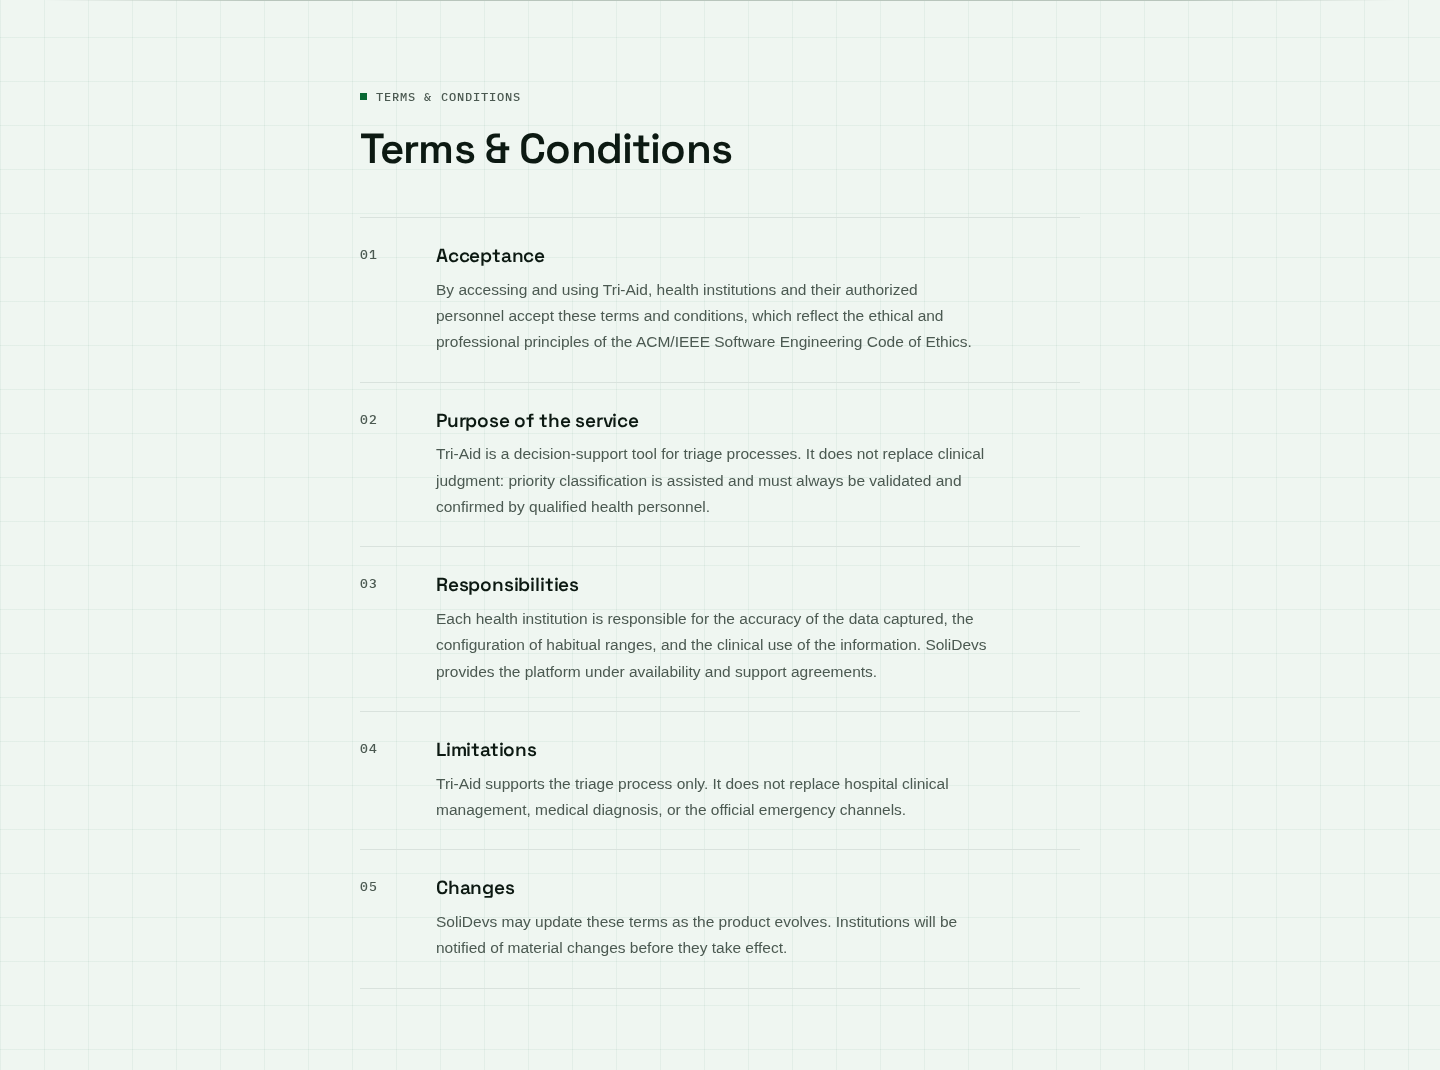
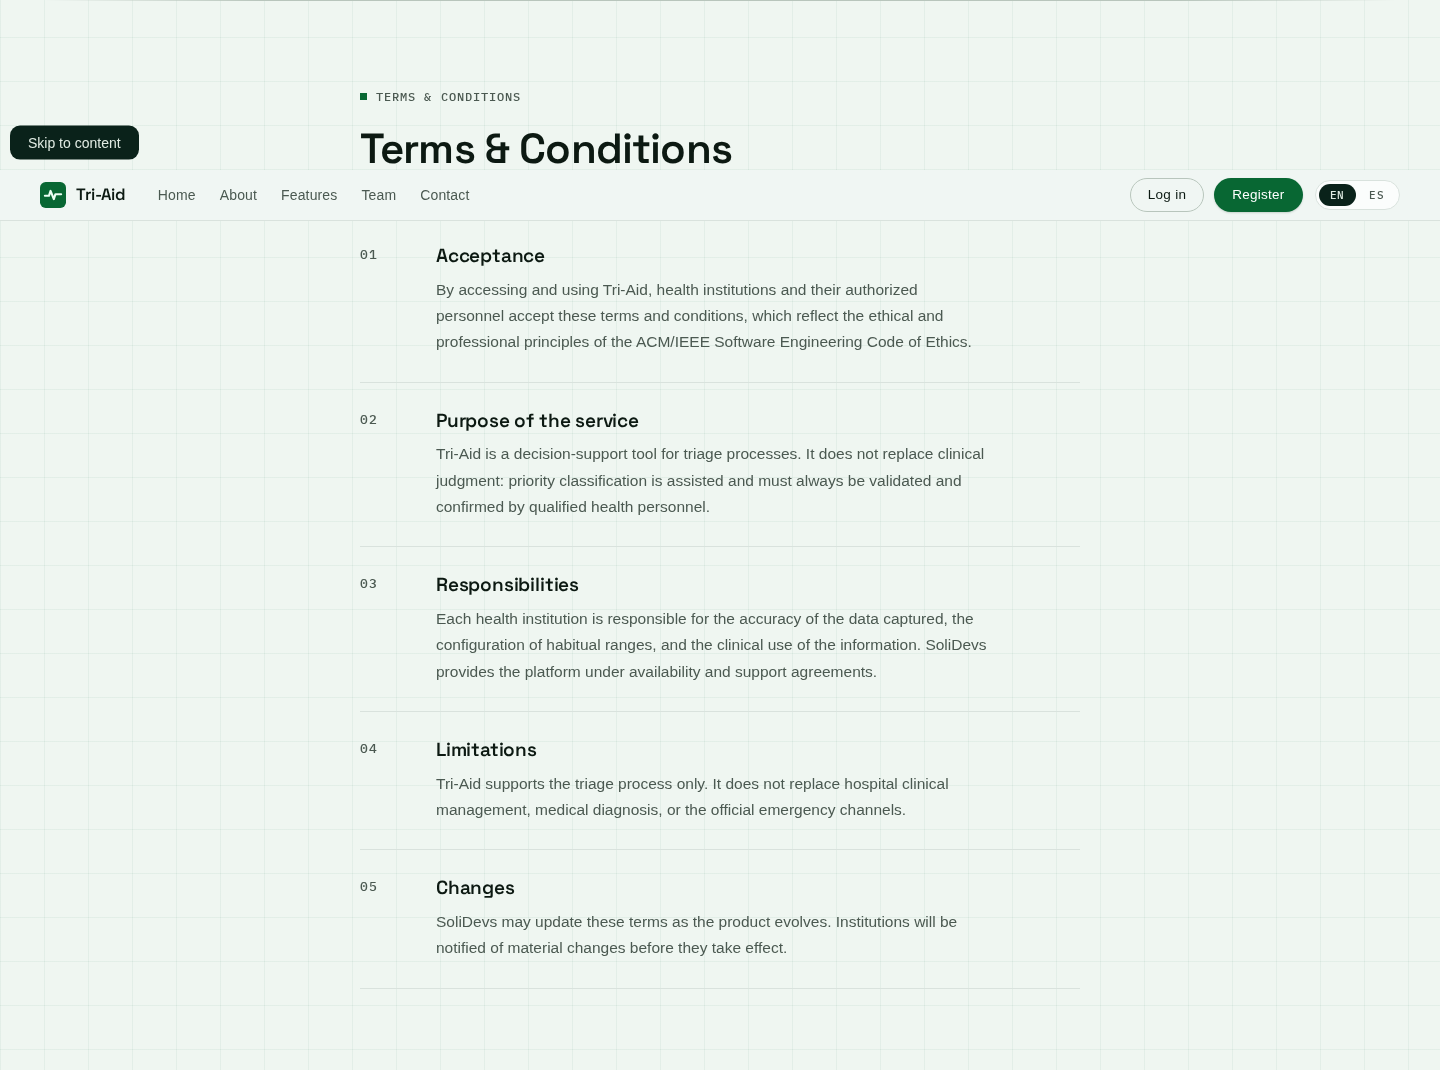
docs: update execution evidence with multiple landing sections

Changed region(s): [[0.0, 0.0925, 0.0938, 0.2159], [0.8438, 0.1542, 0.9375, 0.2159]]

diff --git a/report/front-matter/52-chapter_5.2.md b/report/front-matter/52-chapter_5.2.md
@@ -86,55 +86,63 @@ En esta sección se explican los avances en implementación con relación a los 
 
 #### 5.2.1.5. Execution Evidence for Sprint Review
 
-En esta sección se presentan las evidencias de la ejecución de la Landing Page desarrollada durante el Sprint. Las siguientes capturas muestran la interacción del usuario con las diferentes secciones, permitiendo validar la estructura de información, la propuesta de valor y la navegación definida para Tri-Aid.
+En esta sección se presentan las evidencias de la ejecución de la Landing Page desarrollada durante el Sprint. Las siguientes capturas muestran la interacción del usuario con las diferentes secciones de la página, permitiendo validar la estructura de información, la propuesta de valor y la navegación definida para Tri-Aid.
 
-**Figura 1. Sección principal de la Landing Page (desktop)**
+**Figura 1. Sección principal de la Landing Page**
 
 <div align="center">
   <img src="../assets/landing/landing-desktop.png" width="700">
 </div>
 
-La figura muestra la sección principal de la Landing Page, donde se presenta la propuesta de valor de Tri-Aid junto con los llamados a la acción dirigidos a los hospitales.
+La figura muestra la sección principal de la Landing Page, donde se presenta la propuesta de valor de Tri-Aid junto con los llamados a la acción dirigidos al personal de triaje y a los pacientes.
 
-**Figura 2. Sección principal de la Landing Page (mobile)**
+**Figura 2. Sección About**
 
 <div align="center">
-  <img src="../assets/landing/landing-mobile.png" width="300">
+  <img src="../assets/landing/landing-about.png" width="700">
 </div>
 
-La figura muestra la versión responsive de la Landing Page para dispositivos móviles, que constituye el canal principal de acceso de los pacientes al Portal EP07.
+En esta sección se describe el problema que aborda Tri-Aid y la solución propuesta, permitiendo al visitante comprender el propósito y los beneficios del servicio.
 
-**Figura 3. Sección de planes de suscripción**
+**Figura 3. Sección Features**
+
+<div align="center">
+  <img src="../assets/landing/landing-features.png" width="700">
+</div>
+
+La figura muestra las principales características de la plataforma: captura automática de signos vitales, clasificación asistida NT-158 y seguimiento del paciente en tiempo real.
+
+**Figura 4. Sección Plans**
 
 <div align="center">
   <img src="../assets/landing/landing-planes.png" width="700">
 </div>
 
-La figura muestra la sección de planes de suscripción con el selector de facturación mensual/anual, dirigida a las instituciones de salud interesadas en la plataforma.
+La figura muestra la sección de planes de suscripción con el toggle de facturación mensual/anual, dirigida a las instituciones de salud interesadas en la plataforma.
+
+**Figura 5. Sección Team**
+
+<div align="center">
+  <img src="../assets/landing/landing-team.png" width="700">
+</div>
+
+La figura presenta al equipo SoliDevs, responsables del desarrollo de la plataforma.
+
+**Figura 6. Sección Contact**
+
+<div align="center">
+  <img src="../assets/landing/landing-contact.png" width="700">
+</div>
+
+La figura muestra el formulario de contacto que permite a las instituciones solicitar una demostración del producto.
 
 #### 5.2.1.6. Services Documentation Evidence for Sprint Review
 
 Durante este Sprint el alcance se concentró en la Landing Page, por lo que la documentación de servicios del Web Service (RESTful API) se encuentra planificada para sprints posteriores junto con la implementación de los endpoints definidos en las User Stories US44 a US50. La especificación de dichos endpoints se encuentra definida en el Product Backlog del proyecto.
 
-#### 5.2.1.7. Software Deployment Evidence for Sprint Review
+#### 5.2.1.7. Software Deployment Evidence for Sprint Review.
 
-El despliegue de la Landing Page se realizó mediante GitHub Pages sobre el repositorio de la Landing Page de la organización del equipo. Los pasos del despliegue fueron:
-
-1. Creación del repositorio público landing-page en la organización SoliDevs.
-2. Sincronización del código fuente desarrollado en VS Code con la rama main mediante Git.
-3. Publicación del sitio a través de GitHub Pages, quedando accesible de forma pública.
-
-<p align="center">
-  <img src="../assets/development_environment/repoLanding.png" width="700">
-</p>
-
-<p align="center">
-  <img src="../assets/development_environment/pagesLanding.png" width="700">
-</p>
-
-<p align="center">
-  <img src="../assets/development_environment/deployLanding.png" width="700">
-</p>
+Esta sección se ha decidido omitir debido a que, para este avance, el equipo se ha enfocado solamente en el diseño y desarrollo de la Landing Page. En futuros entregables se procederá a brindar información más detallada del despliegue de las aplicaciones web y los servicios.
 
 #### 5.2.1.8. Team Collaboration Insights during Sprint
 
